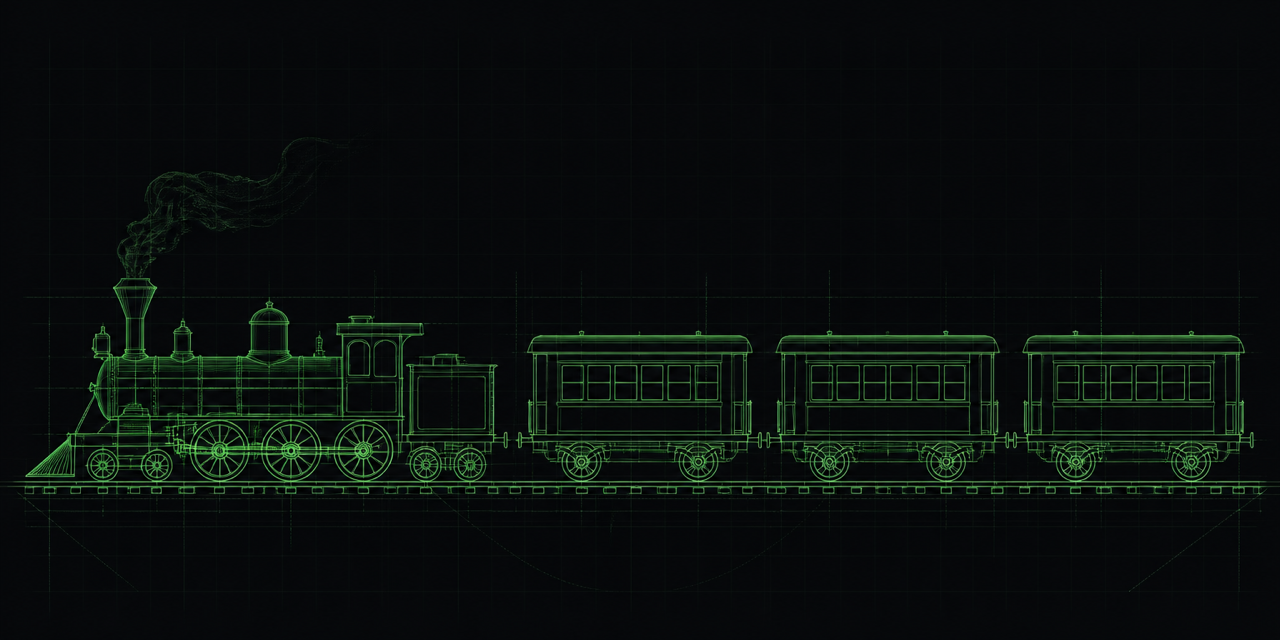
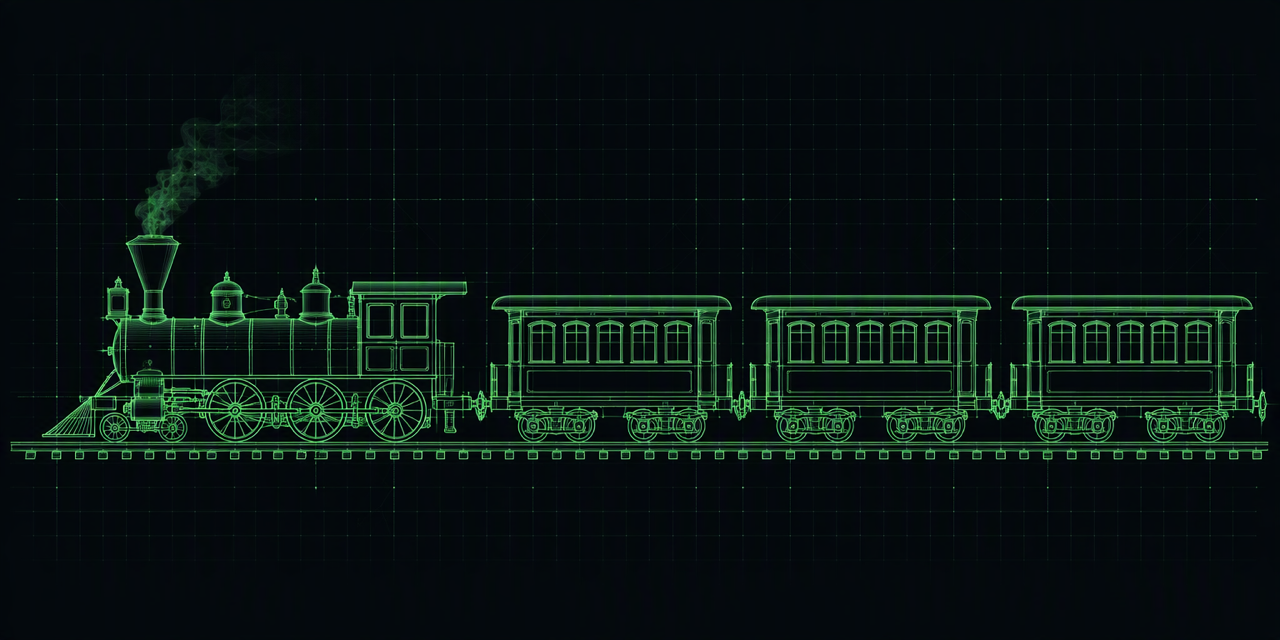
readme: blueprint header image; ascii train moves into the metaphor section

Changed region(s): [[0.0, 0.1875, 1.0, 0.7812]]

diff --git a/README.md b/README.md
@@ -1,25 +1,6 @@
 # Train
 
-```
-                            ( )     ( )
-                        (  )    (  )    (  )
-                      (    )   (    )   (    )
-                        (  )    (  )    (  )
-                            \     |     /
-                             \    |    /
-                              _|__|__|_
-                             |   ___   |
-                        _____|__|   |__|_____
-                   ____|                     |____
-              ____|     ___________________      |____
-             |  _ |    |  o   o   o   o    |     |     |____     ______     ______
-             | (_)|    |___________________|     | [#] |    |   |      |   |      |
-             |____|_____|                 |______|     |    |===|  ..  |===|  ..  |
-             |__________|  T H E   T R A I N  |________|====|   |______|   |______|
-                (O)   (O)      (O)      (O)   (O)   (O)       (o)(o)       (o)(o)
-       =============================================================================
-        ||   ||   ||   ||   ||   ||   ||   ||   ||   ||   ||   ||   ||   ||   ||
-```
+![A steam locomotive pulling three carriages, drawn as a phosphor-green engineering blueprint on black](assets/social-preview.png)
 
 A method for running coding agents in parallel on one repository without them
 colliding, and for making what they tell you checkable.
@@ -43,6 +24,27 @@ find it easier to hold that way.
 | **The carriages** | The subagents. One per ticket, each on its own track, coupled only at the end. |
 | **The track** | The isolated branch and worktree a carriage runs on until integration. |
 | **The gate** | The inspection every carriage passes on its own before it is allowed to couple. |
+
+```
+                            ( )     ( )
+                        (  )    (  )    (  )
+                      (    )   (    )   (    )
+                        (  )    (  )    (  )
+                            \     |     /
+                             \    |    /
+                              _|__|__|_
+                             |   ___   |
+                        _____|__|   |__|_____
+                   ____|                     |____
+              ____|     ___________________      |____
+             |  _ |    |  o   o   o   o    |     |     |____     ______     ______
+             | (_)|    |___________________|     | [#] |    |   |      |   |      |
+             |____|_____|                 |______|     |    |===|  ..  |===|  ..  |
+             |__________|      conductor      |________|====|   |______|   |______|
+                (O)   (O)      (O)      (O)   (O)   (O)       (o)(o)       (o)(o)
+       =============================================================================
+        ||   ||   ||   ||   ||   ||   ||   ||   ||   ||   ||   ||   ||   ||   ||
+```
 
 The load-bearing part of the metaphor is that carriages couple **once, at the
 end**, and the train leaves as a unit. Nothing ships carriage by carriage, and

diff --git a/assets/README.md b/assets/README.md
@@ -1,9 +1,9 @@
 # assets
 
-`social-preview.png` (1280x640) is the GitHub social preview: the card rendered
+`social-preview.png` (1280x640) is the GitHub social preview and the README header: the card rendered
 whenever the repo URL is pasted into X, LinkedIn, Slack, Discord or iMessage.
-`social-preview-alt.png` is a darker alternative with more empty space in the
-upper third, useful if a title is ever overlaid.
+`social-preview-alt.png` is a brighter variant with a stronger grid, which holds
+up better at very small sizes.
 
 GitHub does not expose social preview via its API, so upload it manually at
 Settings > General > Social preview.
